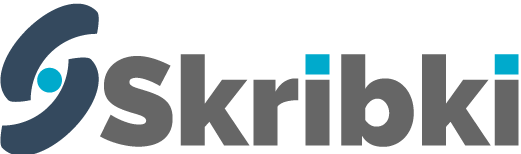
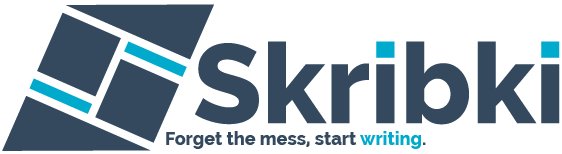
branding update and sidebar style tweak

diff --git a/public/styles/_sidebar.scss b/public/styles/_sidebar.scss
@@ -4,7 +4,6 @@
   > img {
     max-height: 200px;
     max-width: 100%;
-    padding: 20px;
   }
 
   > a {
